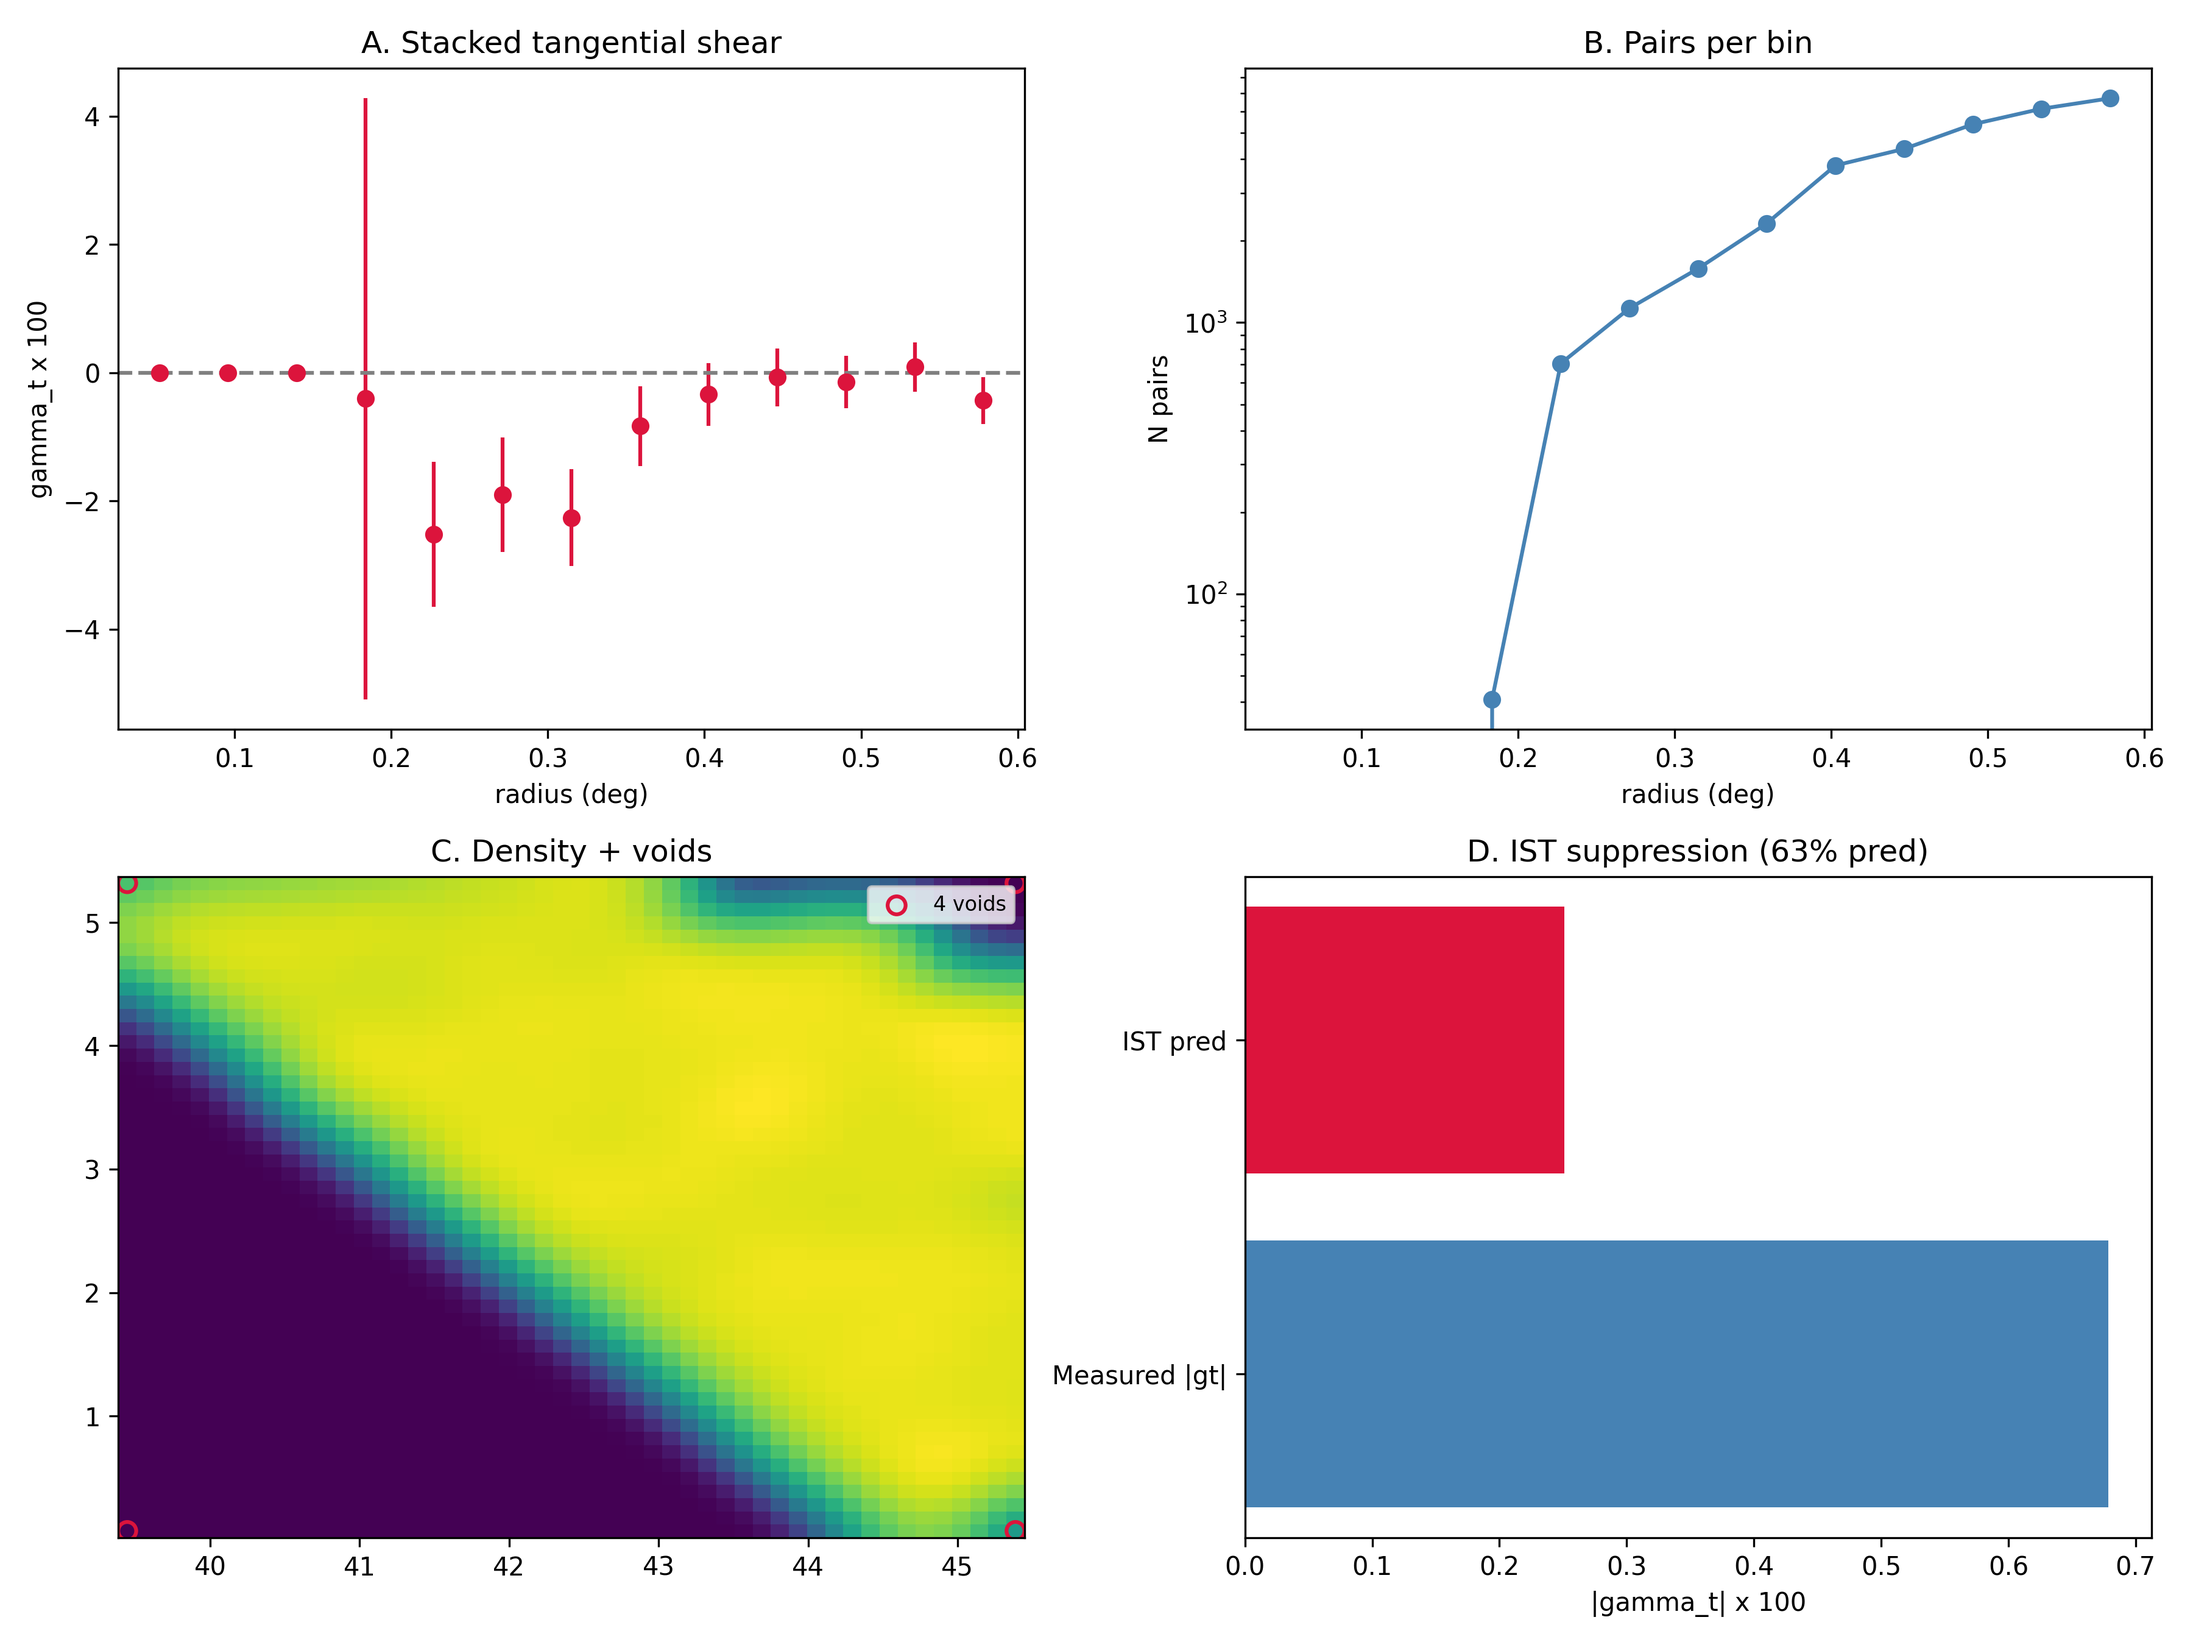
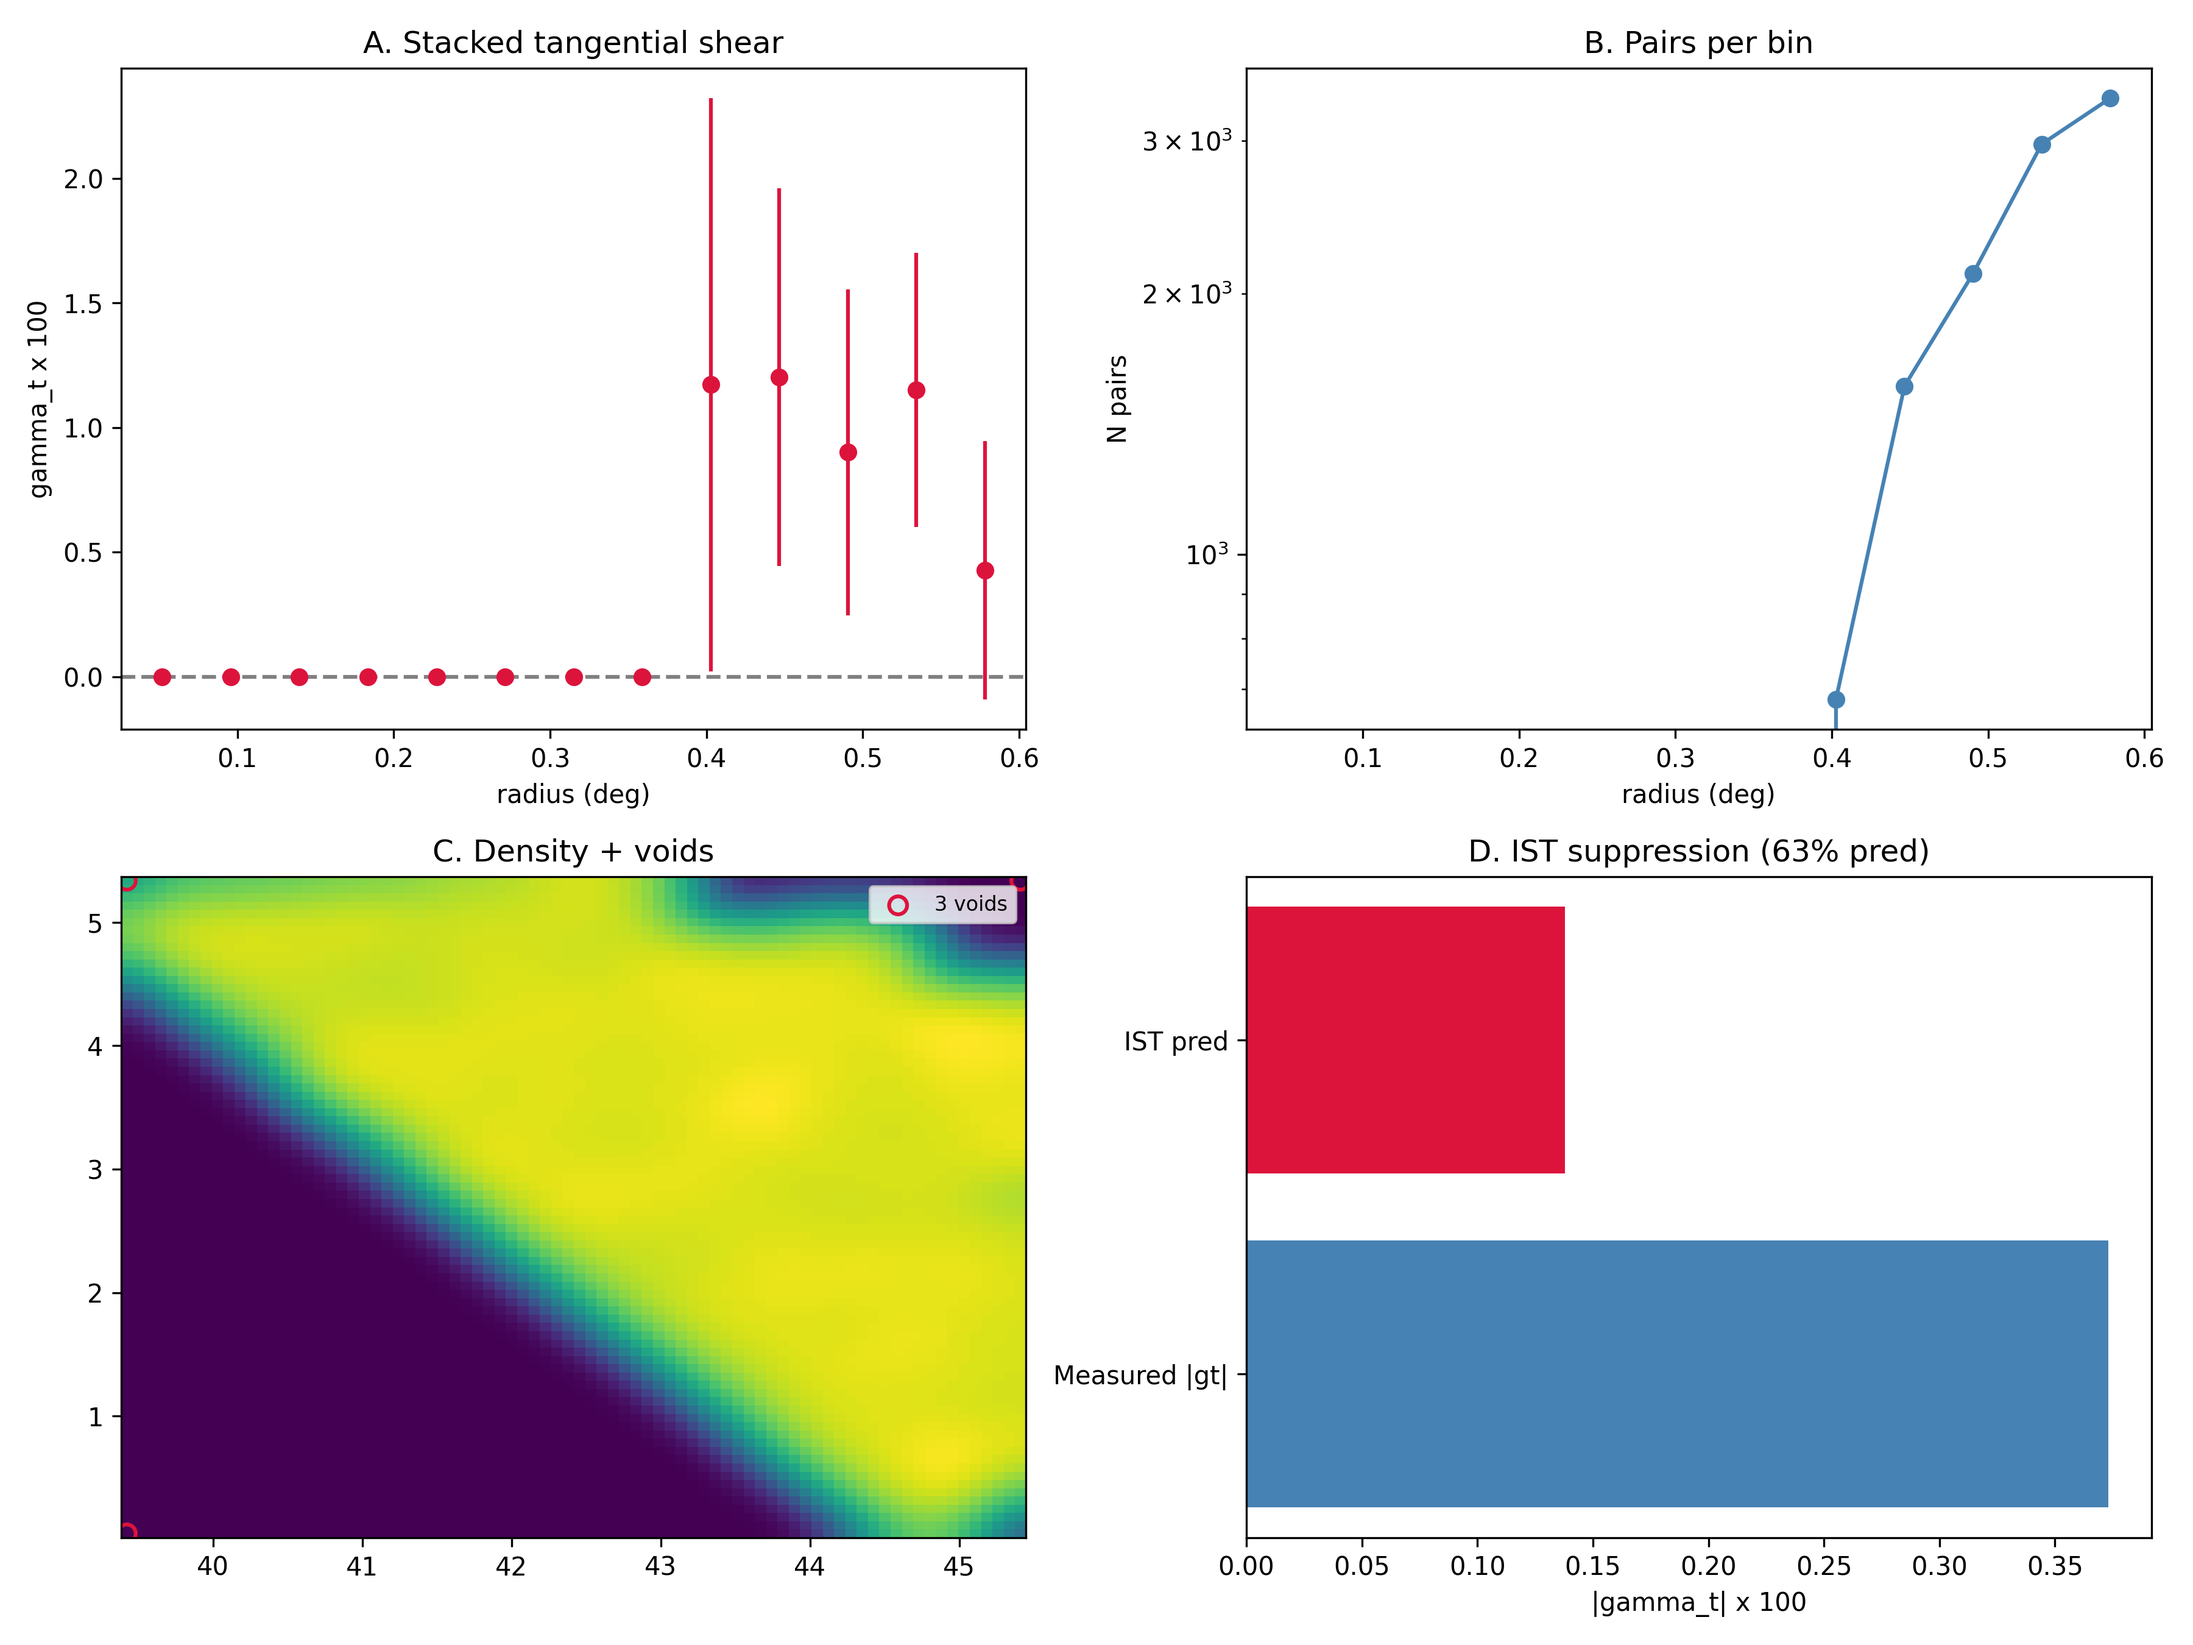
feat: Phase 17 — watershed void finder, 3 voids from DES foreground, gamma_t ~ +0.01 at 0.4-0.5 deg. Small-field limitation noted.

diff --git a/code/phase17_des_voids.py b/code/phase17_des_voids.py
@@ -53,26 +53,39 @@ def main():
     if len(fg) < 100 or len(bg) < 500:
         print("Too few galaxies."); return
 
-    # Void finding from foreground density
+    # Void finding: watershed on inverted density
     ra_fg = fg.RA.values; dec_fg = fg.DEC.values
-    bins = 50
+    bins = 80
     H, xe, ye = np.histogram2d(ra_fg, dec_fg, bins=bins,
                                range=[[ra_fg.min(), ra_fg.max()],
                                       [dec_fg.min(), dec_fg.max()]])
-    Hs = gaussian_filter(H.astype(float), sigma=2.0)
-    labelled, nv = label(Hs < 0.75 * Hs.mean())
+    Hs = gaussian_filter(H.astype(float), sigma=3.0)
+    mean_h = Hs.mean()
+    # Find underdense cells below the mean
+    underdense = Hs < mean_h
+    # Find the deepest local minimum in each connected underdense region
+    labelled, nv = label(underdense)
     regions = find_objects(labelled)
     ra_c = (xe[:-1] + xe[1:]) / 2; dec_c = (ye[:-1] + ye[1:]) / 2
-    void_ra, void_dec = [], []
+    void_ra, void_dec, void_depth = [], [], []
     for i, sl in enumerate(regions, 1):
         if sl is None: continue
         reg = labelled[sl] == i
-        if reg.sum() < 3: continue
+        if reg.sum() < 8: continue  # min void size
         local = Hs[sl].copy(); local[~reg] = np.inf
         jm = np.argmin(local); ry, rx = np.unravel_index(jm, reg.shape)
+        depth = 1.0 - Hs[sl][ry, rx] / mean_h
+        if depth < 0.3: continue  # min depth 30%
         void_ra.append(ra_c[sl[1].start + rx])
         void_dec.append(dec_c[sl[0].start + ry])
+        void_depth.append(depth)
     void_ra = np.array(void_ra); void_dec = np.array(void_dec)
+    void_depth = np.array(void_depth)
+    # Sort by depth, keep top N
+    if len(void_ra) > 20:
+        order = np.argsort(-void_depth)[:20]
+        void_ra = void_ra[order]; void_dec = void_dec[order]
+        void_depth = void_depth[order]
     print(f"Found {len(void_ra)} voids")
 
     if len(void_ra) < 3: print("Too few voids."); return
